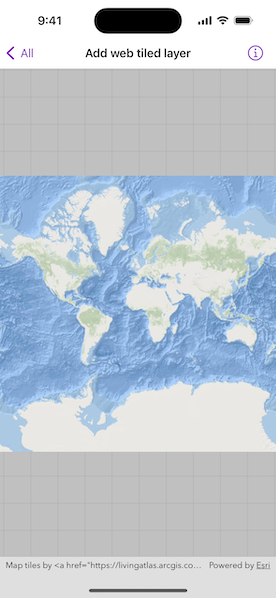
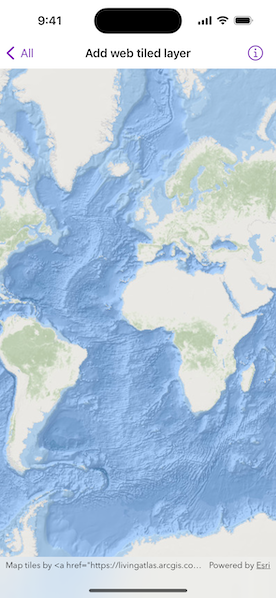
Apply suggestions from Caleb

diff --git a/Shared/Samples/Add web tiled layer/AddWebTiledLayerView.swift b/Shared/Samples/Add web tiled layer/AddWebTiledLayerView.swift
@@ -16,50 +16,31 @@ import ArcGIS
 import SwiftUI
 
 struct AddWebTiledLayerView: View {
-    /// The view model for the sample.
-    @StateObject private var model = Model()
+    // A map with web tiled layer as a basemap.
+    @State private var map: Map = {
+        // Build the web tiled layer from ArcGIS Living Atlas of the World tile service url.
+        let webTiledLayer = WebTiledLayer(urlTemplate: .worldTileServiceStringURL)
+        webTiledLayer.setAttribution(.attributionString)
+        
+        let basemap = Basemap(baseLayer: webTiledLayer)
+        let map = Map(basemap: basemap)
+        map.initialViewpoint = Viewpoint(
+            center: Point(x: -1e6, y: 1e6),
+            scale: 15e7
+        )
+        return map
+    }()
     
     var body: some View {
-        VStack {
-            MapView(map: model.map)
-        }
+        MapView(map: map)
     }
 }
 
-private extension AddWebTiledLayerView {
-    // MARK: - Model
-    
-    /// The view model for the sample.
-    final class Model: ObservableObject {
-        @Published var map: Map
-        
-        init() {
-            self.map = Model.makeMap()
-        }
-        
-        /// A map with a web tiled layer as basemap.
-        static func makeMap() -> Map {
-            let webTiledLayer = webTiledLayer()
-            let basemap = Basemap(baseLayer: webTiledLayer)
-            let map = Map(basemap: basemap)
-            return map
-        }
-        
-        static func webTiledLayer() -> WebTiledLayer {
-            let  worldTileServiceURL = "https://server.arcgisonline.com/arcgis/rest/services/Ocean/World_Ocean_Base/MapServer/tile/{level}/{row}/{col}.jpg"
-            
-            let attribution = """
-                Map tiles by <a href="https://livingatlas.arcgis.com">ArcGIS Living Atlas of the World</a>, under <a href="https://www.esri.com/en-us/legal/terms/full-master-agreement">Esri Master License Agreement</a>. Data by Esri, Garmin, GEBCO, NOAA NGDC, and other contributors.
-                """
-            
-            // Build the web tiled layer from ArcGIS Living Atlas of the World tile service url.
-            let webTiledLayer = WebTiledLayer(urlTemplate: worldTileServiceURL)
-            // Set the attribution on the layer.
-            webTiledLayer.setAttribution(attribution)
-            
-            return webTiledLayer
-        }
-    }
+private extension String {
+    static let attributionString = """
+        Map tiles by <a href="https://livingatlas.arcgis.com">ArcGIS Living Atlas of the World</a>, under <a href="https://www.esri.com/en-us/legal/terms/full-master-agreement">Esri Master License Agreement</a>. Data by Esri, Garmin, GEBCO, NOAA NGDC, and other contributors.
+        """
+    static var worldTileServiceStringURL = "https://services.arcgisonline.com/ArcGIS/rest/services/Ocean/World_Ocean_Base/MapServer/tile/{level}/{row}/{col}.jpg"
 }
 
 #Preview {
